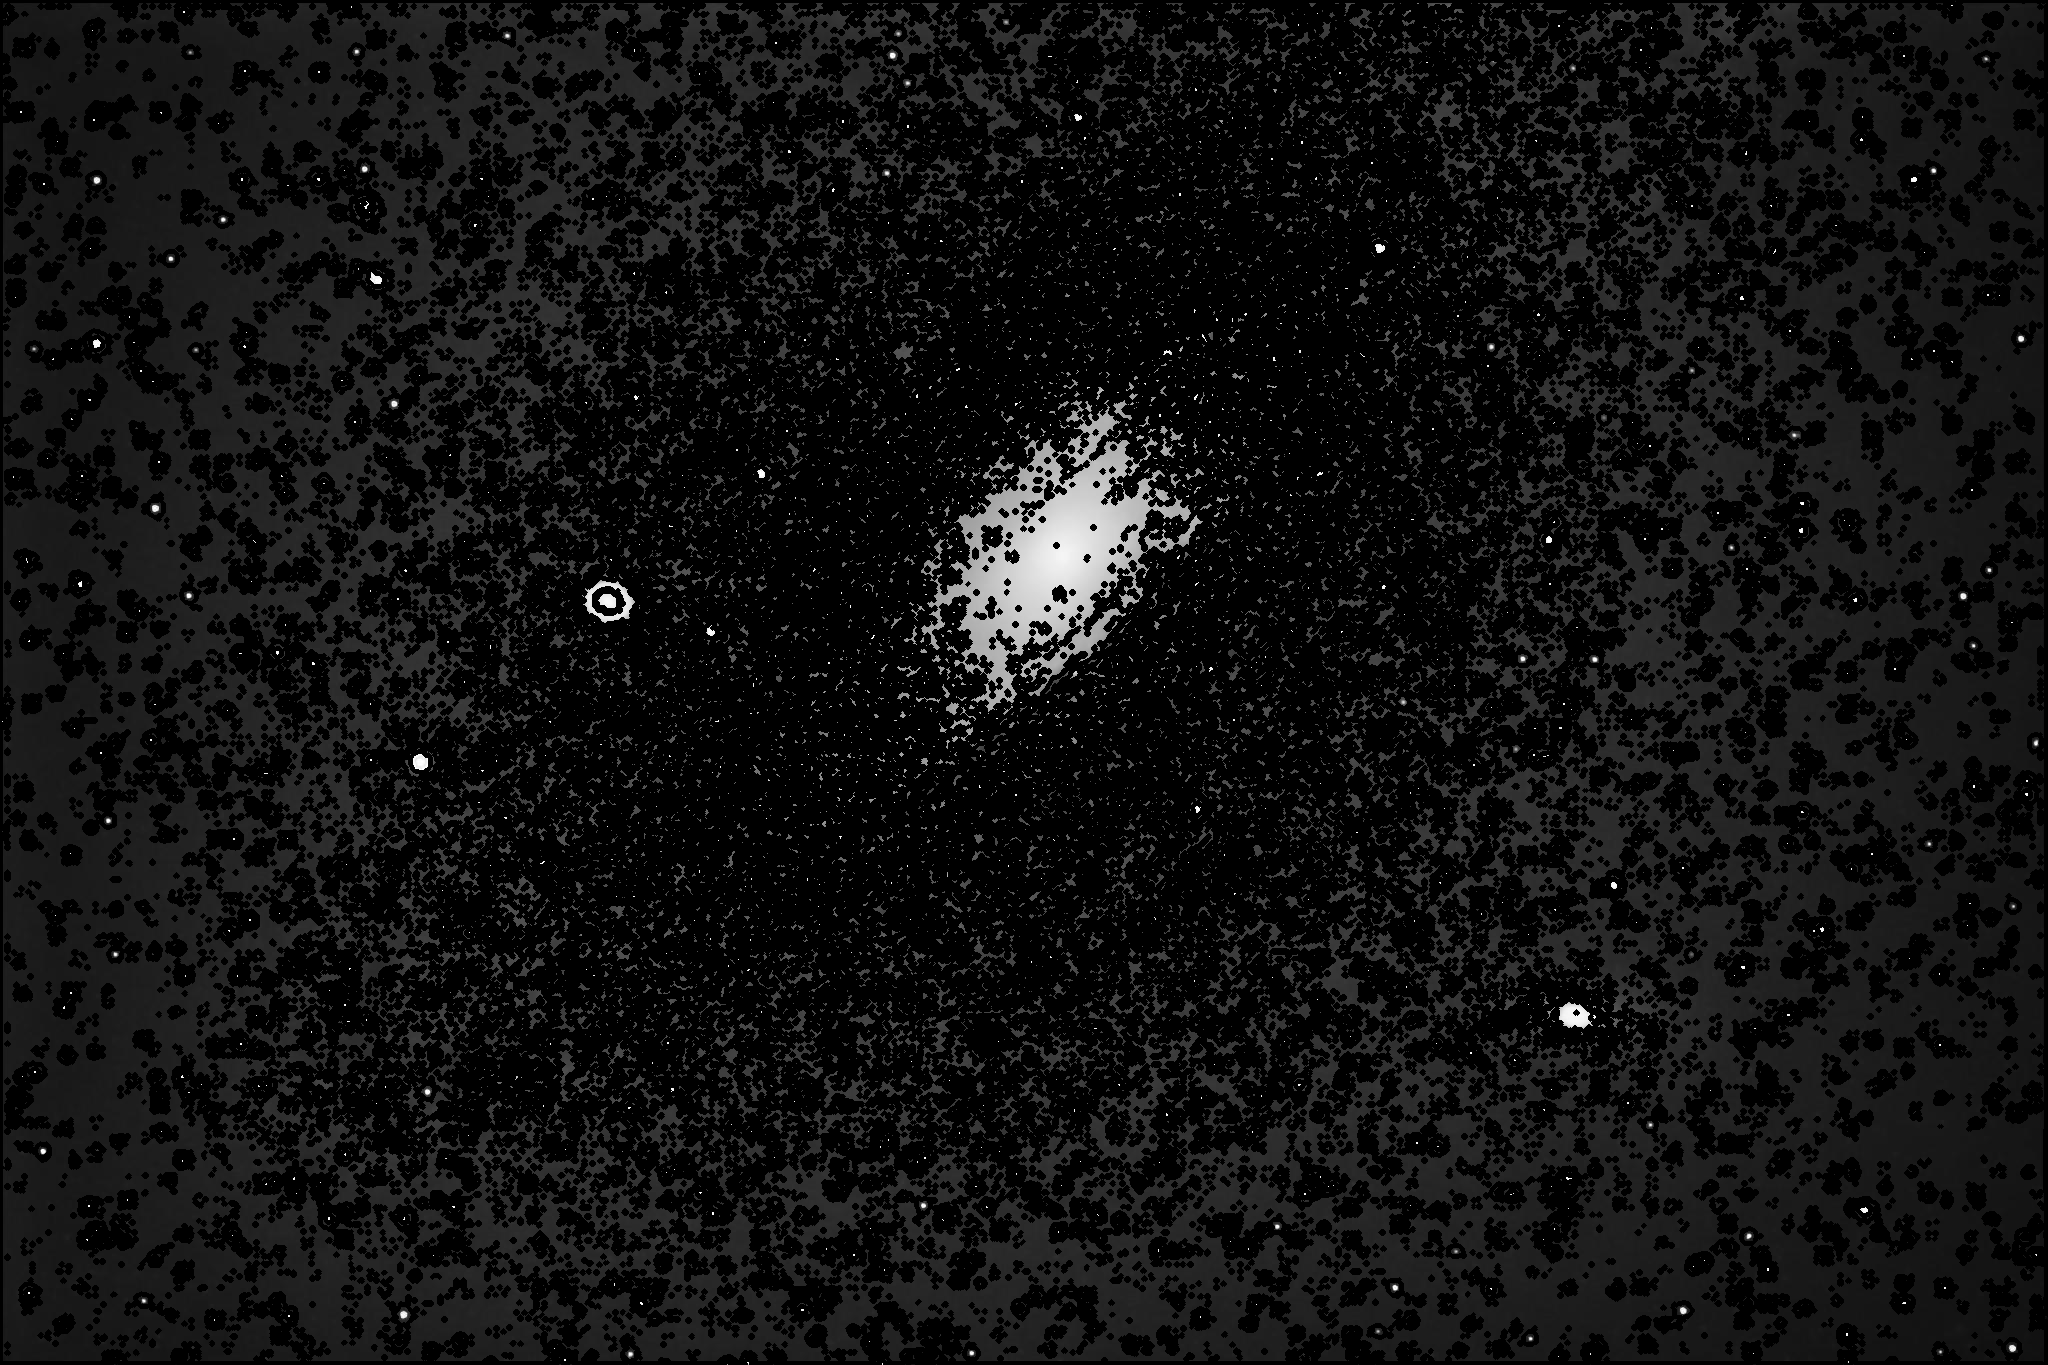
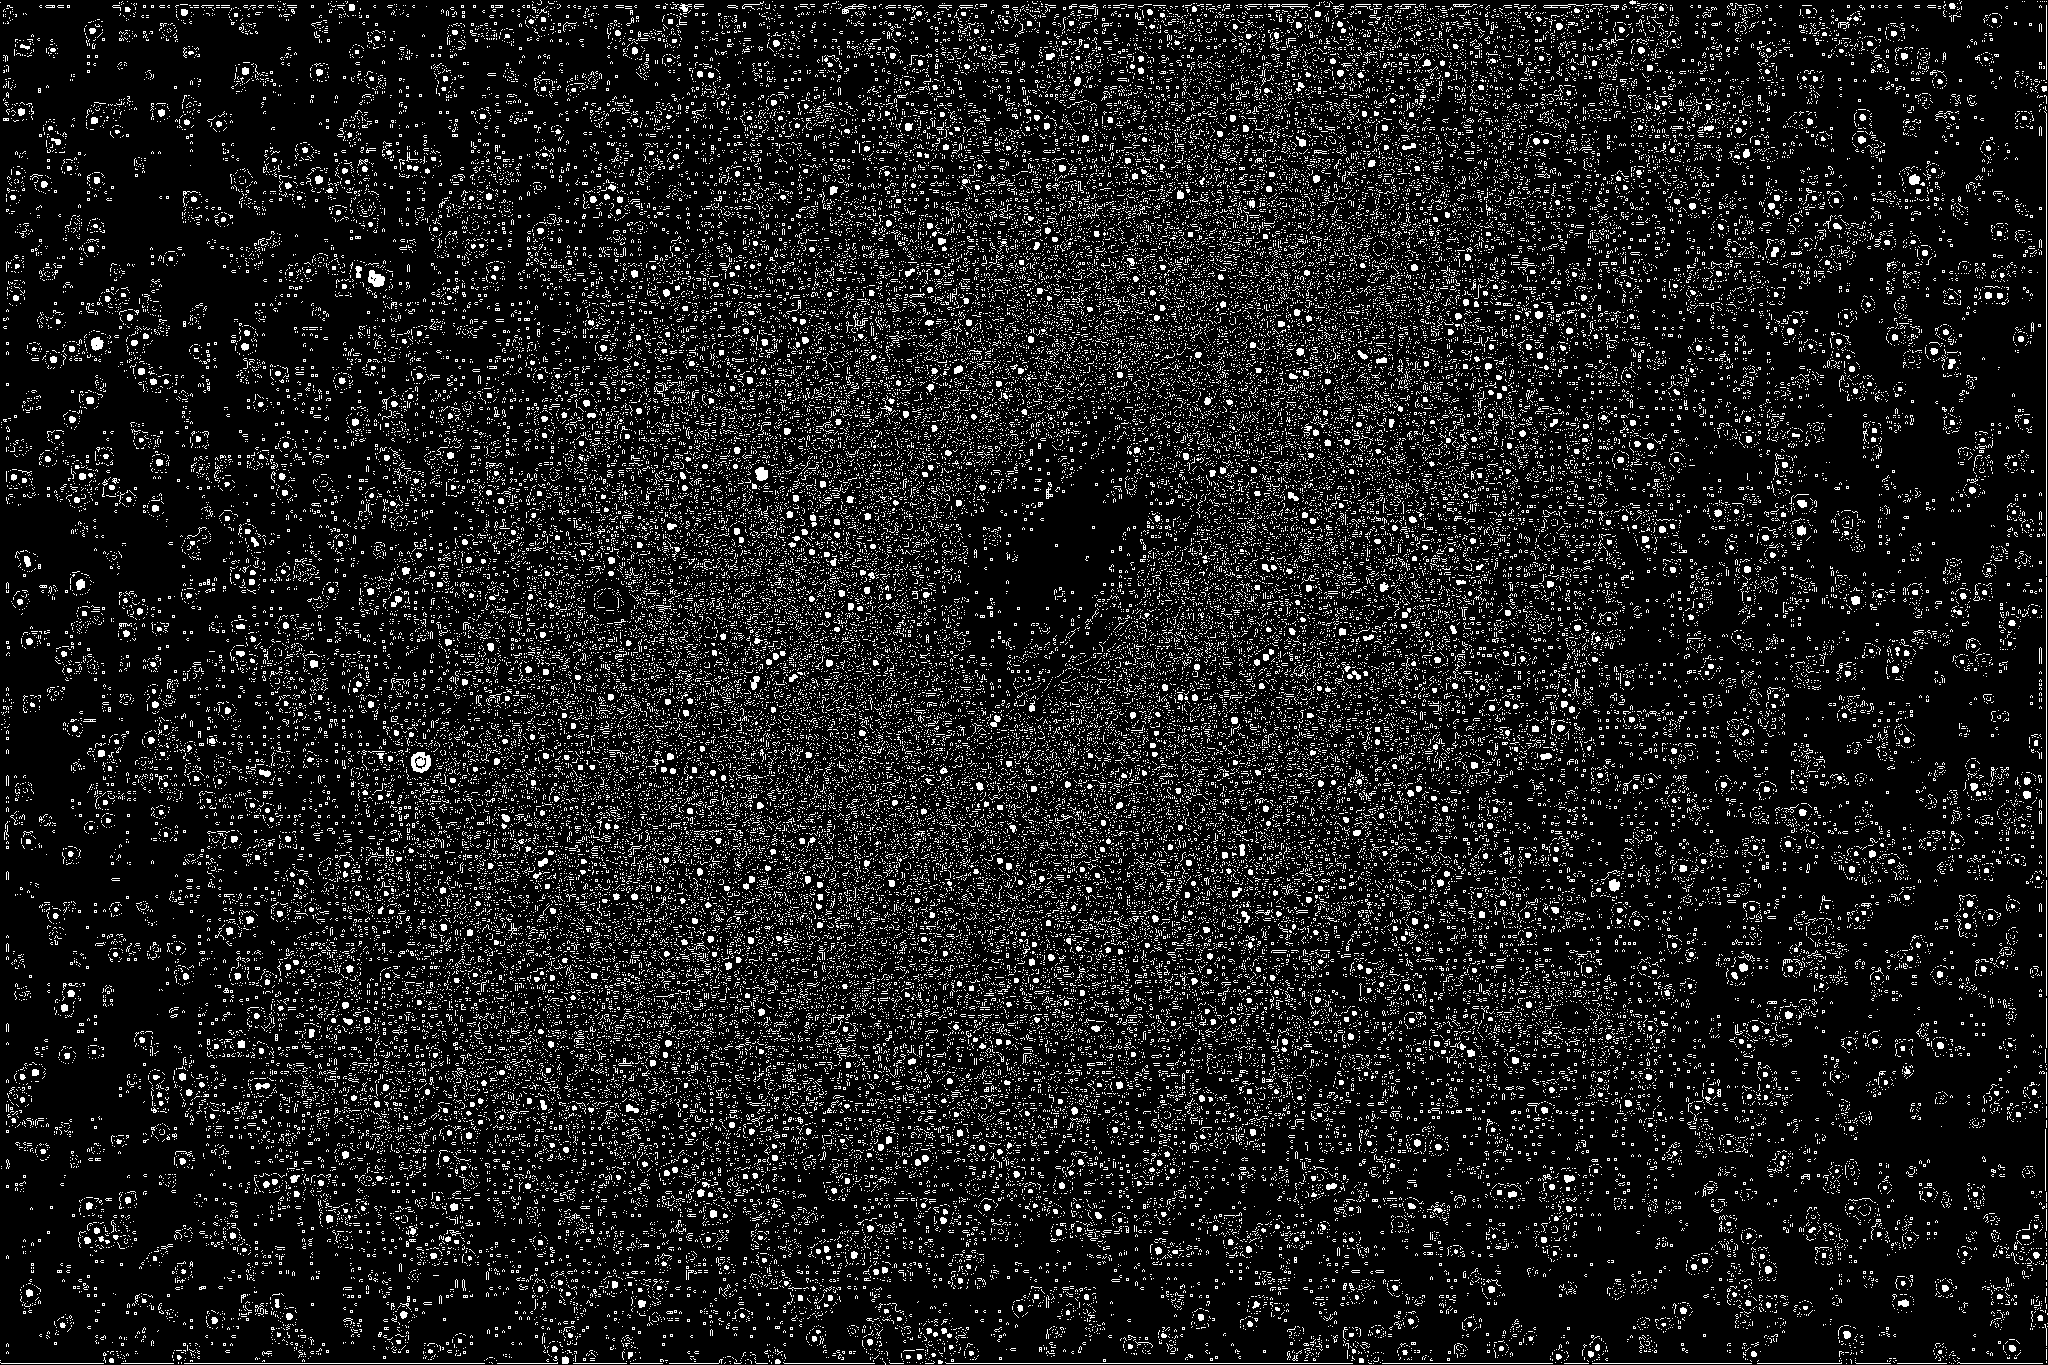
Updated example images

diff --git a/watershed.py b/watershed.py
@@ -9,7 +9,7 @@ def save_image(image, output_path):
 def apply_threshold(image):
     thresh = cv2.adaptiveThreshold(image, 255, cv2.ADAPTIVE_THRESH_GAUSSIAN_C,
                                    cv2.THRESH_BINARY, 11, 2)
-    save_image(thresh, '/images/thresh.png')
+    save_image(thresh, 'images/thresh.png')
     return thresh
 
 def detect_edges_and_draw_contours(threshold_image, grayscale_image):
@@ -24,8 +24,8 @@ def detect_edges_and_draw_contours(threshold_image, grayscale_image):
     result = np.zeros_like(threshold_image)
     # Apply the mask to copy the original color where the mask is true
     result[mask_bool] = threshold_image[mask_bool]
-    cv2.drawContours(grayscale_image, contours, -1, (0, 255, 0), 3)
-    save_image(grayscale_image, 'images/contured_image.png')
+
+    save_image(result, 'images/contured_image.png')
     return result
 
 def apply_watershed(noise_free_img, grayscale_image, original_image):
@@ -64,19 +64,30 @@ def apply_watershed(noise_free_img, grayscale_image, original_image):
         original_image[markers == marker] = colors[i]
 
     save_image(original_image, 'images/watershed_output.png')
+    return markers
+
+def count_stars(markers):
+    unique_markers = np.unique(markers)
+    unique_markers = np.delete(unique_markers, np.where(unique_markers <= 1))
+    return len(unique_markers)
 
 def main(image_path):
+    print("Starting process...")
     image = cv2.imread(image_path)
     gray_img = cv2.cvtColor(image, cv2.COLOR_BGR2GRAY)
+    print("Applying threshold...")
     threshold = apply_threshold(gray_img)
+    print("Detecting edges and drawing contours...")
     edges_detected = detect_edges_and_draw_contours(threshold, gray_img)
 
     kernel = np.ones((3,3),np.uint8)
+    print("Applying morphological transformations...")
     opening_image = cv2.morphologyEx(edges_detected, cv2.MORPH_OPEN, kernel)
     save_image(opening_image, 'images/opening.png')
-
-    apply_watershed(opening_image, gray_img, image)
-
+    print("Applying watershed algorithm...")
+    markers = apply_watershed(opening_image, gray_img, image)
+    num_stars = count_stars(markers)
+    print(f"Number of stars found: {num_stars}")
 
 if __name__ == '__main__':
     # Create the parser
